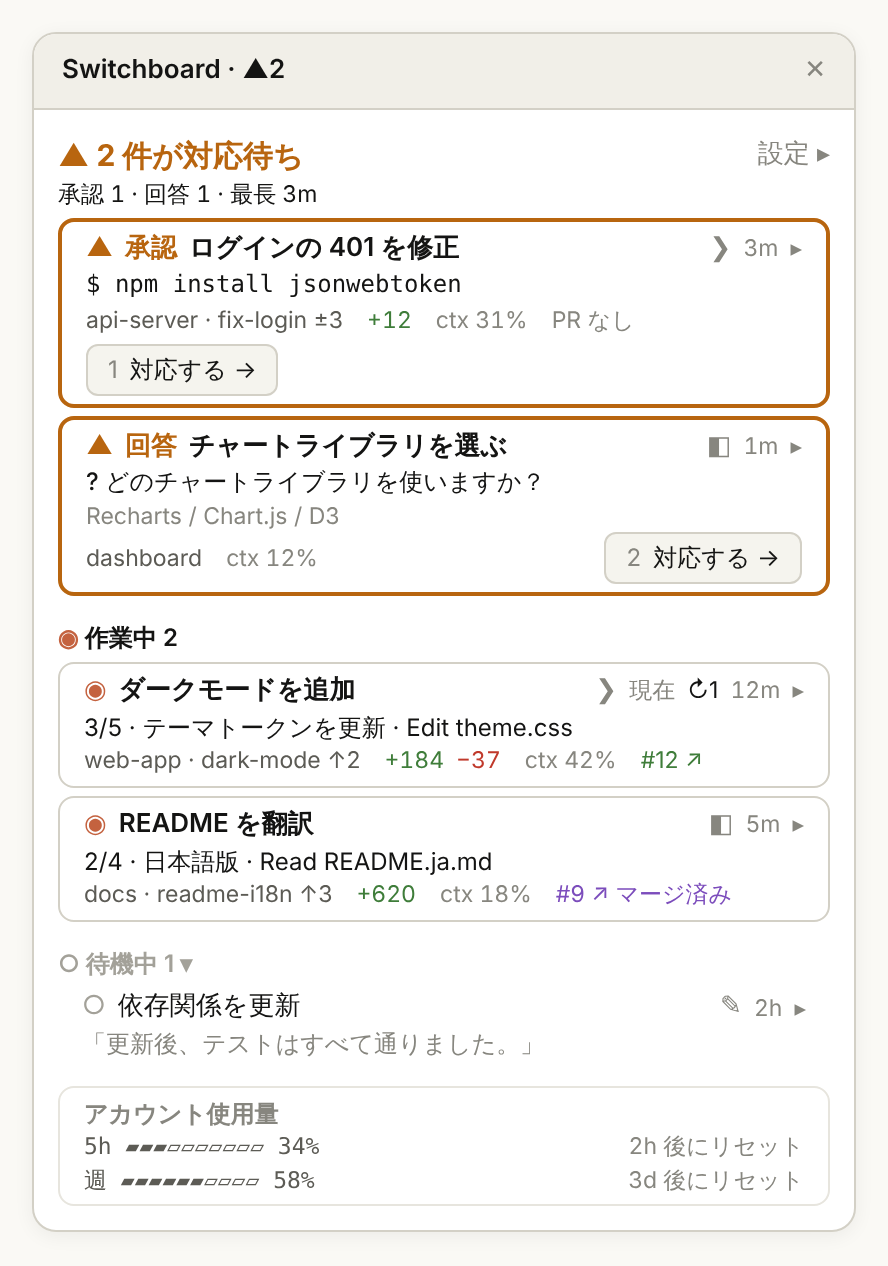
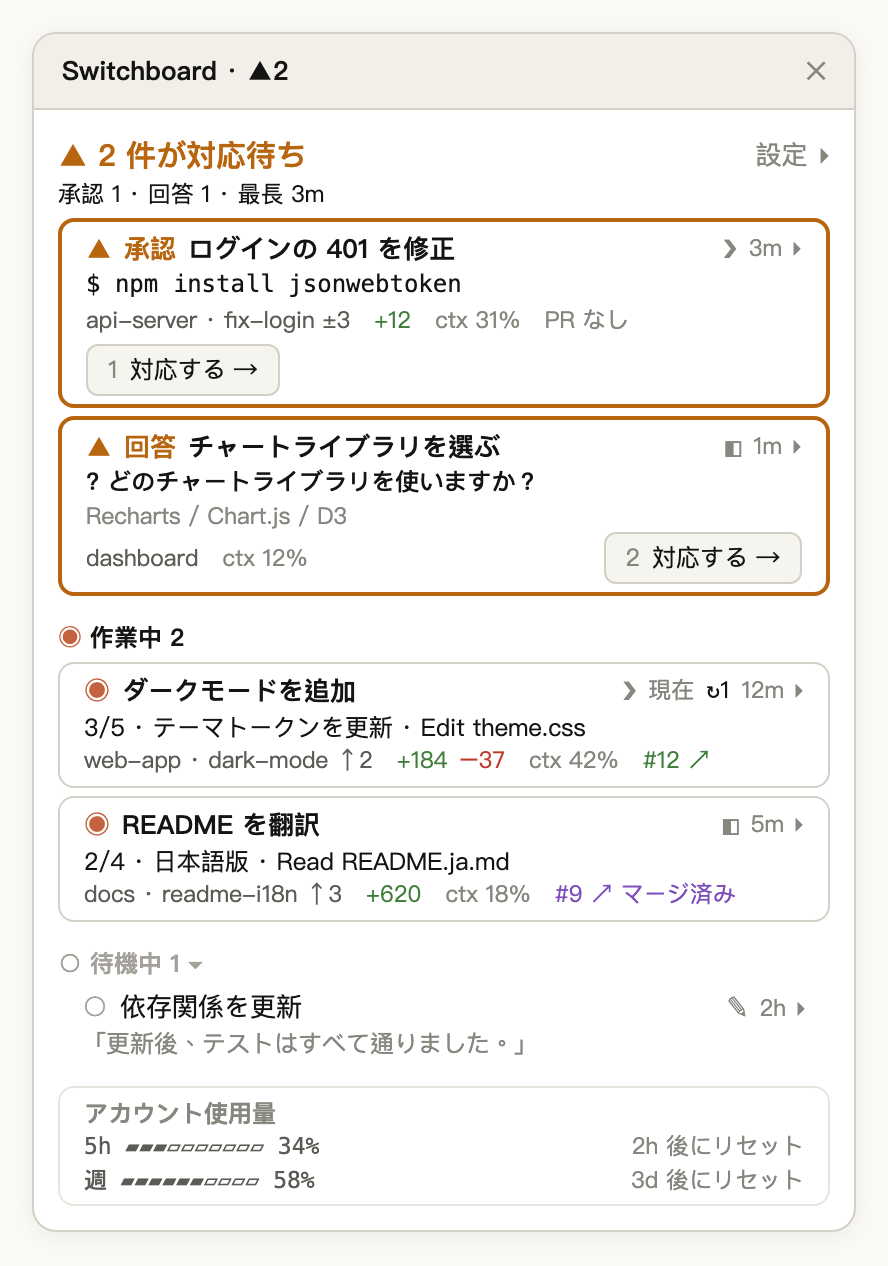
docs: 示意圖對照新的展開鈕與閒置間距重新產生（五種語言）
- render.mjs 跟上 register.tsx：時間併進展開鈕（`3m ▸`）、閒置列之間 rowGap="md"
- 重新產生 board、terminal、states 三種示意圖，五種語言共 15 張
- README 的展開說明改成點時間加 ▸ 展開

diff --git a/README.ja.md b/README.ja.md
@@ -134,7 +134,7 @@ rm -rf ~/.claude/switchboard
 - **アカウント使用量**：サブスクリプションでは 5 時間と週ごとのレート制限の使用率とリセットまでの時間、API 課金では全セッションの合計コスト。普段は一覧の最後に薄い枠で表示され、対応が必要なカードを押し下げません。5 時間または週の使用量が 95% に達したときだけ、ヘッダーの下に移ります
 - **タイトル**：Desktop のセッションはそのタイトル、`/rename` で名前を付けた CLI セッションはその名前を表示します。それ以外の CLI セッションは最初のプロンプトの先頭約 40 文字、まだ送信していなければプロジェクトフォルダ名（worktree ではリポジトリ名）です。同じタイトルになる行にはブランチ名、またはセッションを開始した順に `#2`、`#3` が付きます。タイトル行の右側、時間の前の記号でセッションの場所がわかります：`◧` Claude Desktop、`❯` ターミナル（iTerm、Terminal.app など）、`✎` VS Code の統合ターミナル。今いるセッションには **現在** が付き、監視ウィンドウが狭いときは `✦` になります
 - **タイトルをクリック** してもそのセッションへ移動します。Desktop セッションは Claude Desktop の該当セッションへ、iTerm・Terminal.app の CLI セッションは該当するタブへ切り替わります
-- タイトル行の右端の `▸` をクリックすると展開します（時間は表示だけで、クリックできません）。矢印が `▾` に変わり、「詳細」のすべての項目に加え、コンテキストの使用量バー、ブランチと比較の基準（例：`origin/main との差分`）、環境、コネクタ、フルパス、最大 5 件のバックグラウンドタスクを表示します。展開している間、カード上の `ctx` とブランチは詳細のほうに表示され、重複しません
+- タイトル行の右端の時間と `▸`（例：`3m ▸`。この 2 つで 1 つのボタンです）をクリックすると展開します。矢印が `▾` に変わり、「詳細」のすべての項目に加え、コンテキストの使用量バー、ブランチと比較の基準（例：`origin/main との差分`）、環境、コネクタ、フルパス、最大 5 件のバックグラウンドタスクを表示します。展開している間、カード上の `ctx` とブランチは詳細のほうに表示され、重複しません
 - **設定 ▸** でヘッダーの下に下の設定を開きます
 
 <p align="center">

diff --git a/README.ko.md b/README.ko.md
@@ -134,7 +134,7 @@ rm -rf ~/.claude/switchboard
 - **계정 사용량**: 구독 요금제는 5시간·주간 사용 한도 사용률과 초기화까지 남은 시간, API 과금은 모든 세션의 총 비용. 평소에는 목록 맨 끝에 흐린 테두리로 있어 확인 필요 카드를 밀어내지 않으며, 5시간 또는 주간 사용량이 95%에 이르면 헤더 아래로 올라옵니다
 - **제목**: Desktop 세션은 자체 제목을, `/rename`으로 이름을 붙인 CLI 세션은 그 이름을 표시합니다. 그 밖의 CLI 세션은 첫 프롬프트의 앞 약 40자, 아직 보내지 않았다면 프로젝트 폴더 이름(worktree는 저장소 이름)을 씁니다. 제목이 같은 행에는 브랜치 이름이, 그래도 같으면 세션을 시작한 순서대로 `#2`, `#3`이 붙습니다. 제목 줄 오른쪽, 시간 앞의 기호로 세션이 어디서 실행 중인지 알 수 있습니다: `◧` Claude Desktop, `❯` 터미널(iTerm, Terminal.app 등), `✎` VS Code 통합 터미널. 지금 있는 세션에는 **현재**가 붙고, 모니터 창이 좁을 때는 `✦`로 바뀝니다
 - **제목을 클릭** 해도 해당 세션으로 이동합니다. Desktop 세션은 Claude Desktop의 해당 세션으로, iTerm·Terminal.app의 CLI 세션은 해당 탭으로 전환됩니다
-- 제목 줄 오른쪽 끝의 `▸`를 클릭하면 펼쳐집니다(시간은 표시일 뿐 클릭할 수 없습니다). 화살표가 `▾`로 바뀌며 「자세히」의 모든 항목과 함께 컨텍스트 사용량 막대, 브랜치와 비교 기준(예: `origin/main 대비`), 환경, 커넥터, 전체 경로, 최대 5개의 백그라운드 작업을 보여 줍니다. 펼친 동안 카드의 `ctx`와 브랜치는 세부 정보 쪽에 표시되어 겹치지 않습니다
+- 제목 줄 오른쪽 끝의 시간과 `▸`(예: `3m ▸`, 둘이 한 버튼입니다)를 클릭하면 펼쳐집니다. 화살표가 `▾`로 바뀌며 「자세히」의 모든 항목과 함께 컨텍스트 사용량 막대, 브랜치와 비교 기준(예: `origin/main 대비`), 환경, 커넥터, 전체 경로, 최대 5개의 백그라운드 작업을 보여 줍니다. 펼친 동안 카드의 `ctx`와 브랜치는 세부 정보 쪽에 표시되어 겹치지 않습니다
 - **설정 ▸**으로 헤더 아래에 아래 설정을 엽니다
 
 <p align="center">

diff --git a/README.md b/README.md
@@ -134,7 +134,7 @@ rm -rf ~/.claude/switchboard
 - **Account usage**: on a subscription, 5-hour and weekly rate-limit usage with their reset times; on API billing, the total spent across sessions. It sits at the end of the list with a faint border so it never pushes Needs You cards down, and moves up under the header only once 5-hour or weekly usage reaches 95%
 - **Titles**: a Desktop session shows its own title, and a CLI session renamed with `/rename` shows that name. Any other CLI session is titled with the first ~40 characters of its first prompt, or the project folder before you send one (for a worktree, the repo name). Rows that would share a title get their branch added, or `#2`, `#3` in the order the sessions started. A symbol on the right of the title row, before the time, shows where the session runs: `◧` Claude Desktop, `❯` a terminal (iTerm, Terminal.app, …), `✎` the VS Code integrated terminal. The session you're in is marked **This one**, or `✦` when the Board is too narrow
 - **Click a title** to jump to that session too: a Desktop session opens in Claude Desktop; a CLI session in iTerm or Terminal.app switches to its tab
-- **Click the `▸`** at the right end of the title row to expand a card (the time is only a label, not a button): the arrow turns into `▾` and the card shows every Detailed field, plus a context usage bar, the branch and the base it is compared with (for example `vs origin/main`), the environment, connectors, the full path and up to 5 background tasks. While a card is expanded, `ctx` and the branch move from the card into the details instead of showing twice
+- **Click the time and `▸`** at the right end of the title row (for example `3m ▸`, one button) to expand a card: the arrow turns into `▾` and the card shows every Detailed field, plus a context usage bar, the branch and the base it is compared with (for example `vs origin/main`), the environment, connectors, the full path and up to 5 background tasks. While a card is expanded, `ctx` and the branch move from the card into the details instead of showing twice
 - **Settings ▸** opens the settings below, under the header
 
 <p align="center">

diff --git a/README.zh-CN.md b/README.zh-CN.md
@@ -134,7 +134,7 @@ rm -rf ~/.claude/switchboard
 - **账户用量**：订阅制显示 5 小时与每周的 rate limit 使用率和重置时间；API 计费显示所有 Session 的总花费。平时放在列表最后、外框淡色，不挤掉待处理的卡片；5 小时或每周用量达到 95% 时才移到顶部下方
 - **标题**：Desktop 的 Session 用它自己的标题，用 `/rename` 改过名的 CLI Session 用那个名称；其他 CLI Session 用第一句 prompt 的前约 40 字，还没发送 prompt 时用项目文件夹名称（worktree 用 repo 名称）。标题相同的几行会补上分支名，分不出来时按 Session 开始的先后补 `#2`、`#3`。标题行右侧、时间前面的符号表示 Session 在哪里：`◧` Claude Desktop、`❯` 终端（iTerm、Terminal.app 等）、`✎` VS Code 集成终端。你所在的 Session 标示「当前」，监控窗口太窄时改成 `✦`
 - **点击标题** 也会跳转到那个 Session：Desktop Session 切到 Claude Desktop 中对应的 Session；iTerm、Terminal.app 里的 CLI Session 切到对应的标签页
-- 点击标题行最右端的 `▸` 即可展开（时间只是显示，不能点击）：箭头变成 `▾`，并显示「详细」的全部字段，另外还有 Context 用量条、分支与比较的基准（例如 `相对 origin/main`）、环境、连接器、完整路径和最多 5 个后台任务。卡片上的 `ctx` 和分支在展开时改到明细里显示，不重复
+- 点击标题行最右端的时间和 `▸`（例如 `3m ▸`，两者是同一个按钮）即可展开：箭头变成 `▾`，并显示「详细」的全部字段，另外还有 Context 用量条、分支与比较的基准（例如 `相对 origin/main`）、环境、连接器、完整路径和最多 5 个后台任务。卡片上的 `ctx` 和分支在展开时改到明细里显示，不重复
 - **设置 ▸** 在顶部下方打开下面的设置
 
 <p align="center">

diff --git a/README.zh-TW.md b/README.zh-TW.md
@@ -134,7 +134,7 @@ rm -rf ~/.claude/switchboard
 - **帳號用量**：訂閱制顯示 5 小時與每週的 rate limit 使用率和重置時間；API 計費顯示所有 Session 的總花費。平常放在清單最後、外框淡色，不擠掉待處理的卡片；5 小時或每週用量達到 95% 時才移到頁首下方
 - **標題**：Desktop 的 Session 用它自己的標題，用 `/rename` 改過名的 CLI Session 用那個名稱；其他 CLI Session 用第一句 prompt 的前約 40 字，還沒送出 prompt 時用專案資料夾名稱（worktree 用 repo 名稱）。標題相同的幾列會補上分支名，分不出來時依 Session 開始的先後補 `#2`、`#3`。標題列右側、時間前面的符號表示 Session 在哪裡：`◧` Claude Desktop、`❯` 終端機（iTerm、Terminal.app 等）、`✎` VS Code 整合終端機。你所在的 Session 標示「目前」，監看視窗太窄時改成 `✦`
 - **點標題** 也會跳轉到那個 Session：Desktop Session 切到 Claude Desktop 裡對應的 Session；iTerm、Terminal.app 裡的 CLI Session 切到對應的分頁
-- 點標題列最右端的 `▸` 就會展開（時間只是顯示，不能點）：箭頭變成 `▾`，並顯示「詳細」的全部欄位，另外還有 Context 用量條、分支與比較的基底（例如 `相對 origin/main`）、環境、連接器、完整路徑和最多 5 個背景任務。卡片上的 `ctx` 和分支在展開時改到明細裡顯示，不重複
+- 點標題列最右端的時間和 `▸`（例如 `3m ▸`，兩個是同一顆按鈕）就會展開：箭頭變成 `▾`，並顯示「詳細」的全部欄位，另外還有 Context 用量條、分支與比較的基底（例如 `相對 origin/main`）、環境、連接器、完整路徑和最多 5 個背景任務。卡片上的 `ctx` 和分支在展開時改到明細裡顯示，不重複
 - **設定 ▸** 在頁首下方打開下面的設定
 
 <p align="center">
